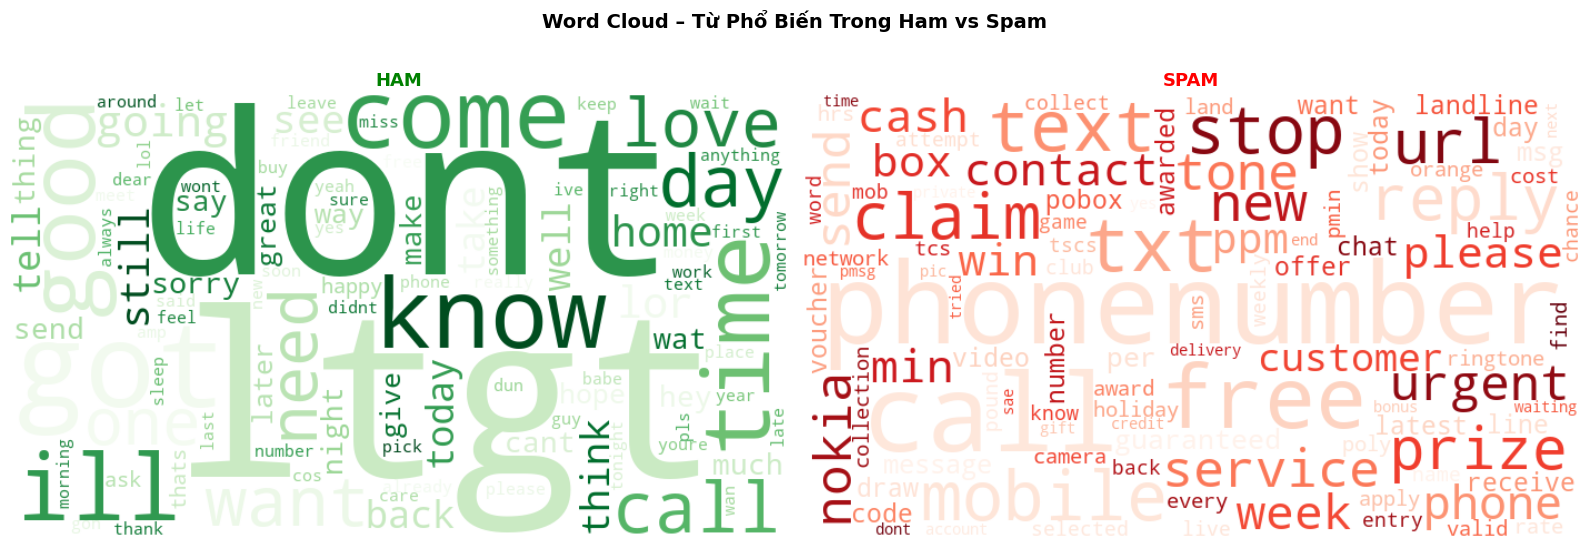
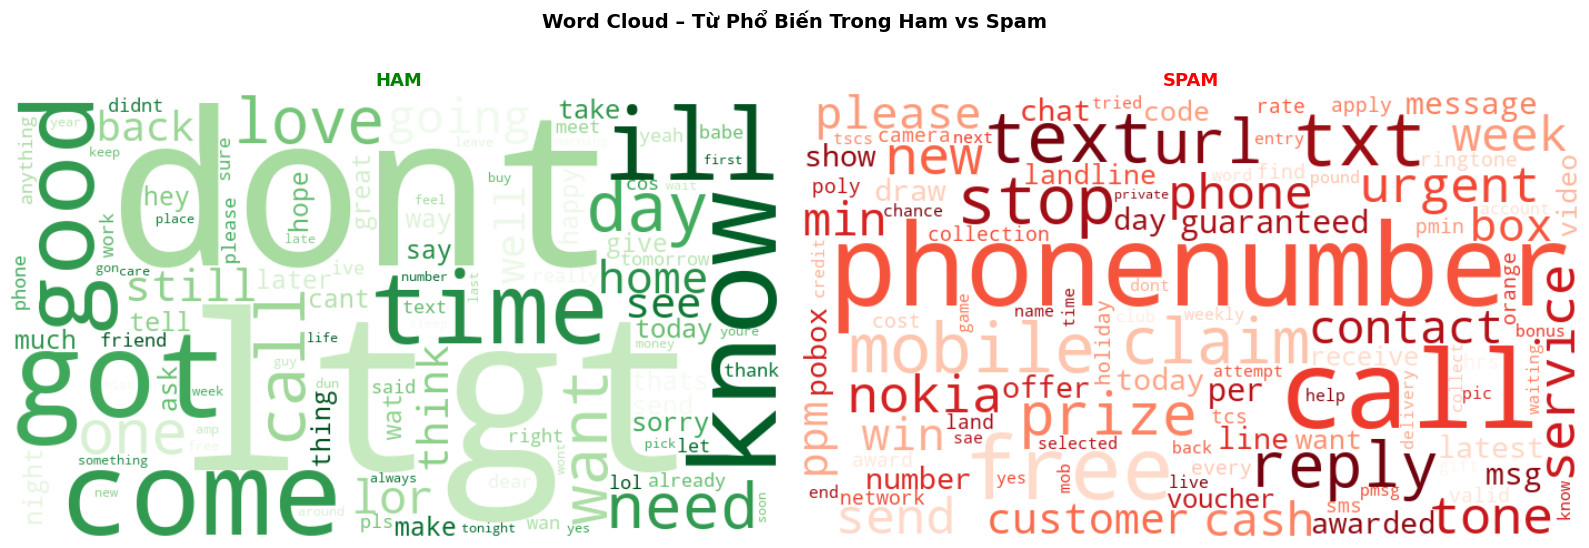
stage 5

diff --git a/README.md b/README.md
@@ -1,2 +1,2 @@
 # SMS_Spam_Project
-pip install pandas matplotlib nltk scikit-learn wordcloud
+pip install pandas matplotlib nltk scikit-learn wordcloud seaborn